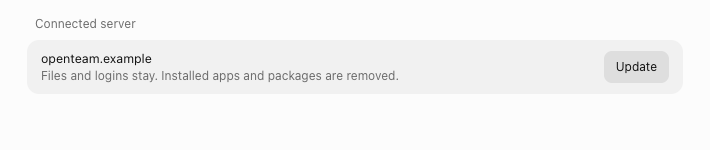
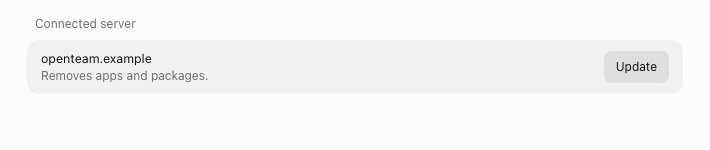
Reduce server update description to four words

Changed region(s): [[0.062, 0.48, 0.5577, 0.56]]

diff --git a/apps/desktop/src/renderer/components/openteam/settings/computer-update.tsx b/apps/desktop/src/renderer/components/openteam/settings/computer-update.tsx
@@ -171,7 +171,7 @@ export function ComputerUpdateSettings() {
               {new URL(API_BASE).host}
             </div>
             <div className="mt-px max-w-[440px] text-[12px] leading-4 text-foreground-secondary">
-              Files and logins stay. Installed apps and packages are removed.
+              Removes apps and packages.
             </div>
             {extraCopy ? (
               <div
